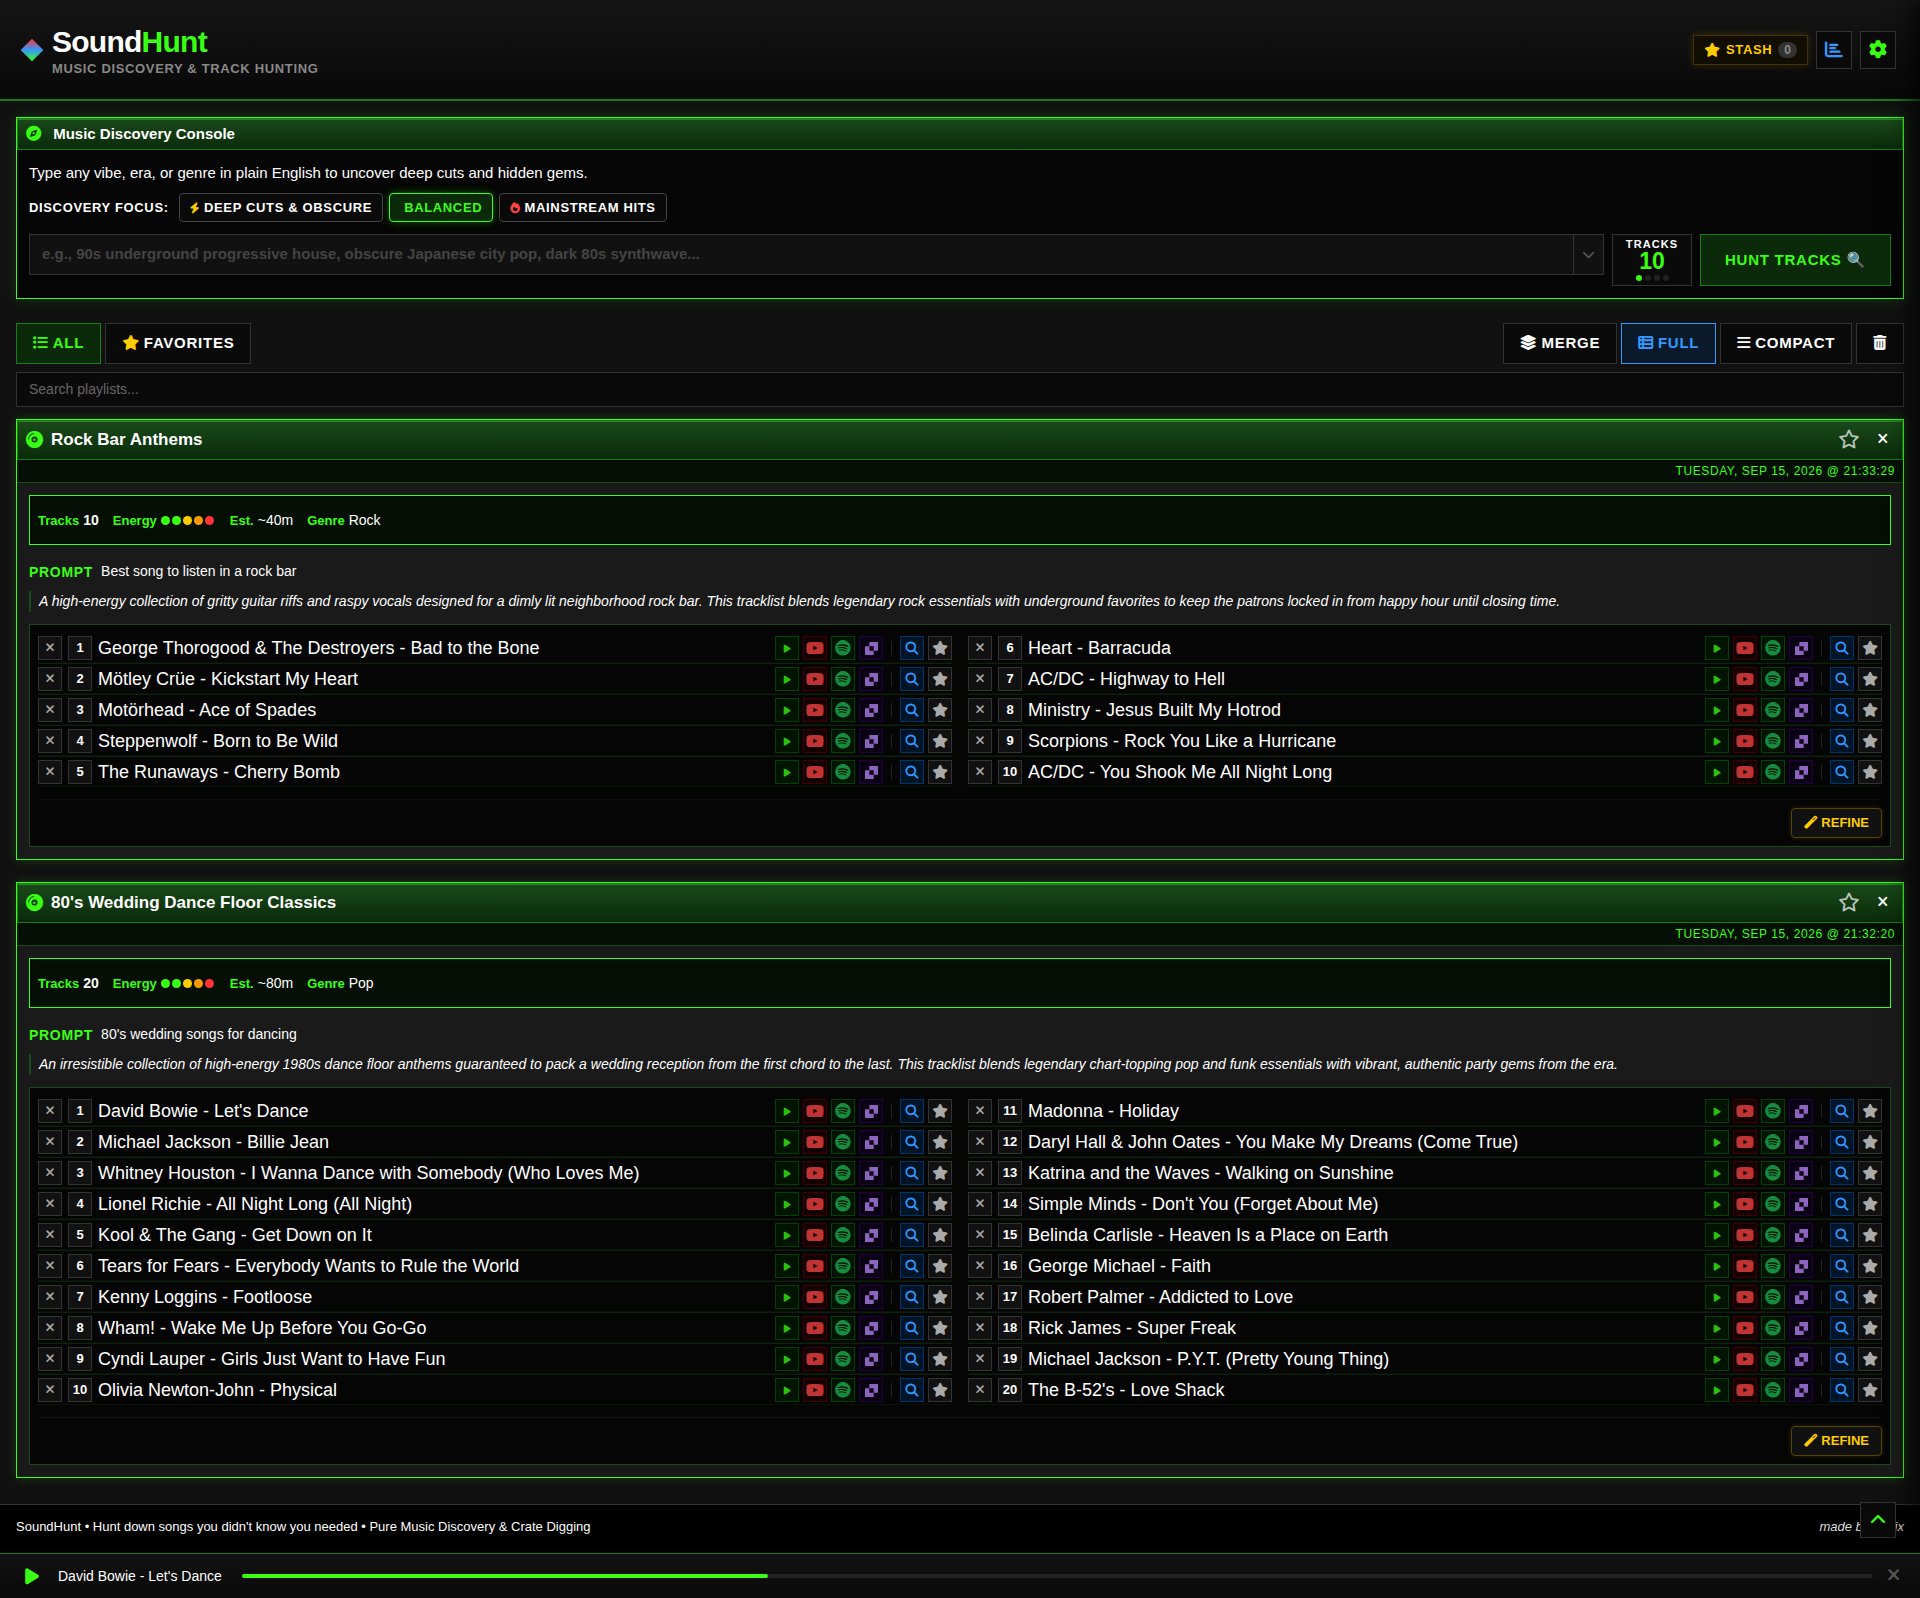
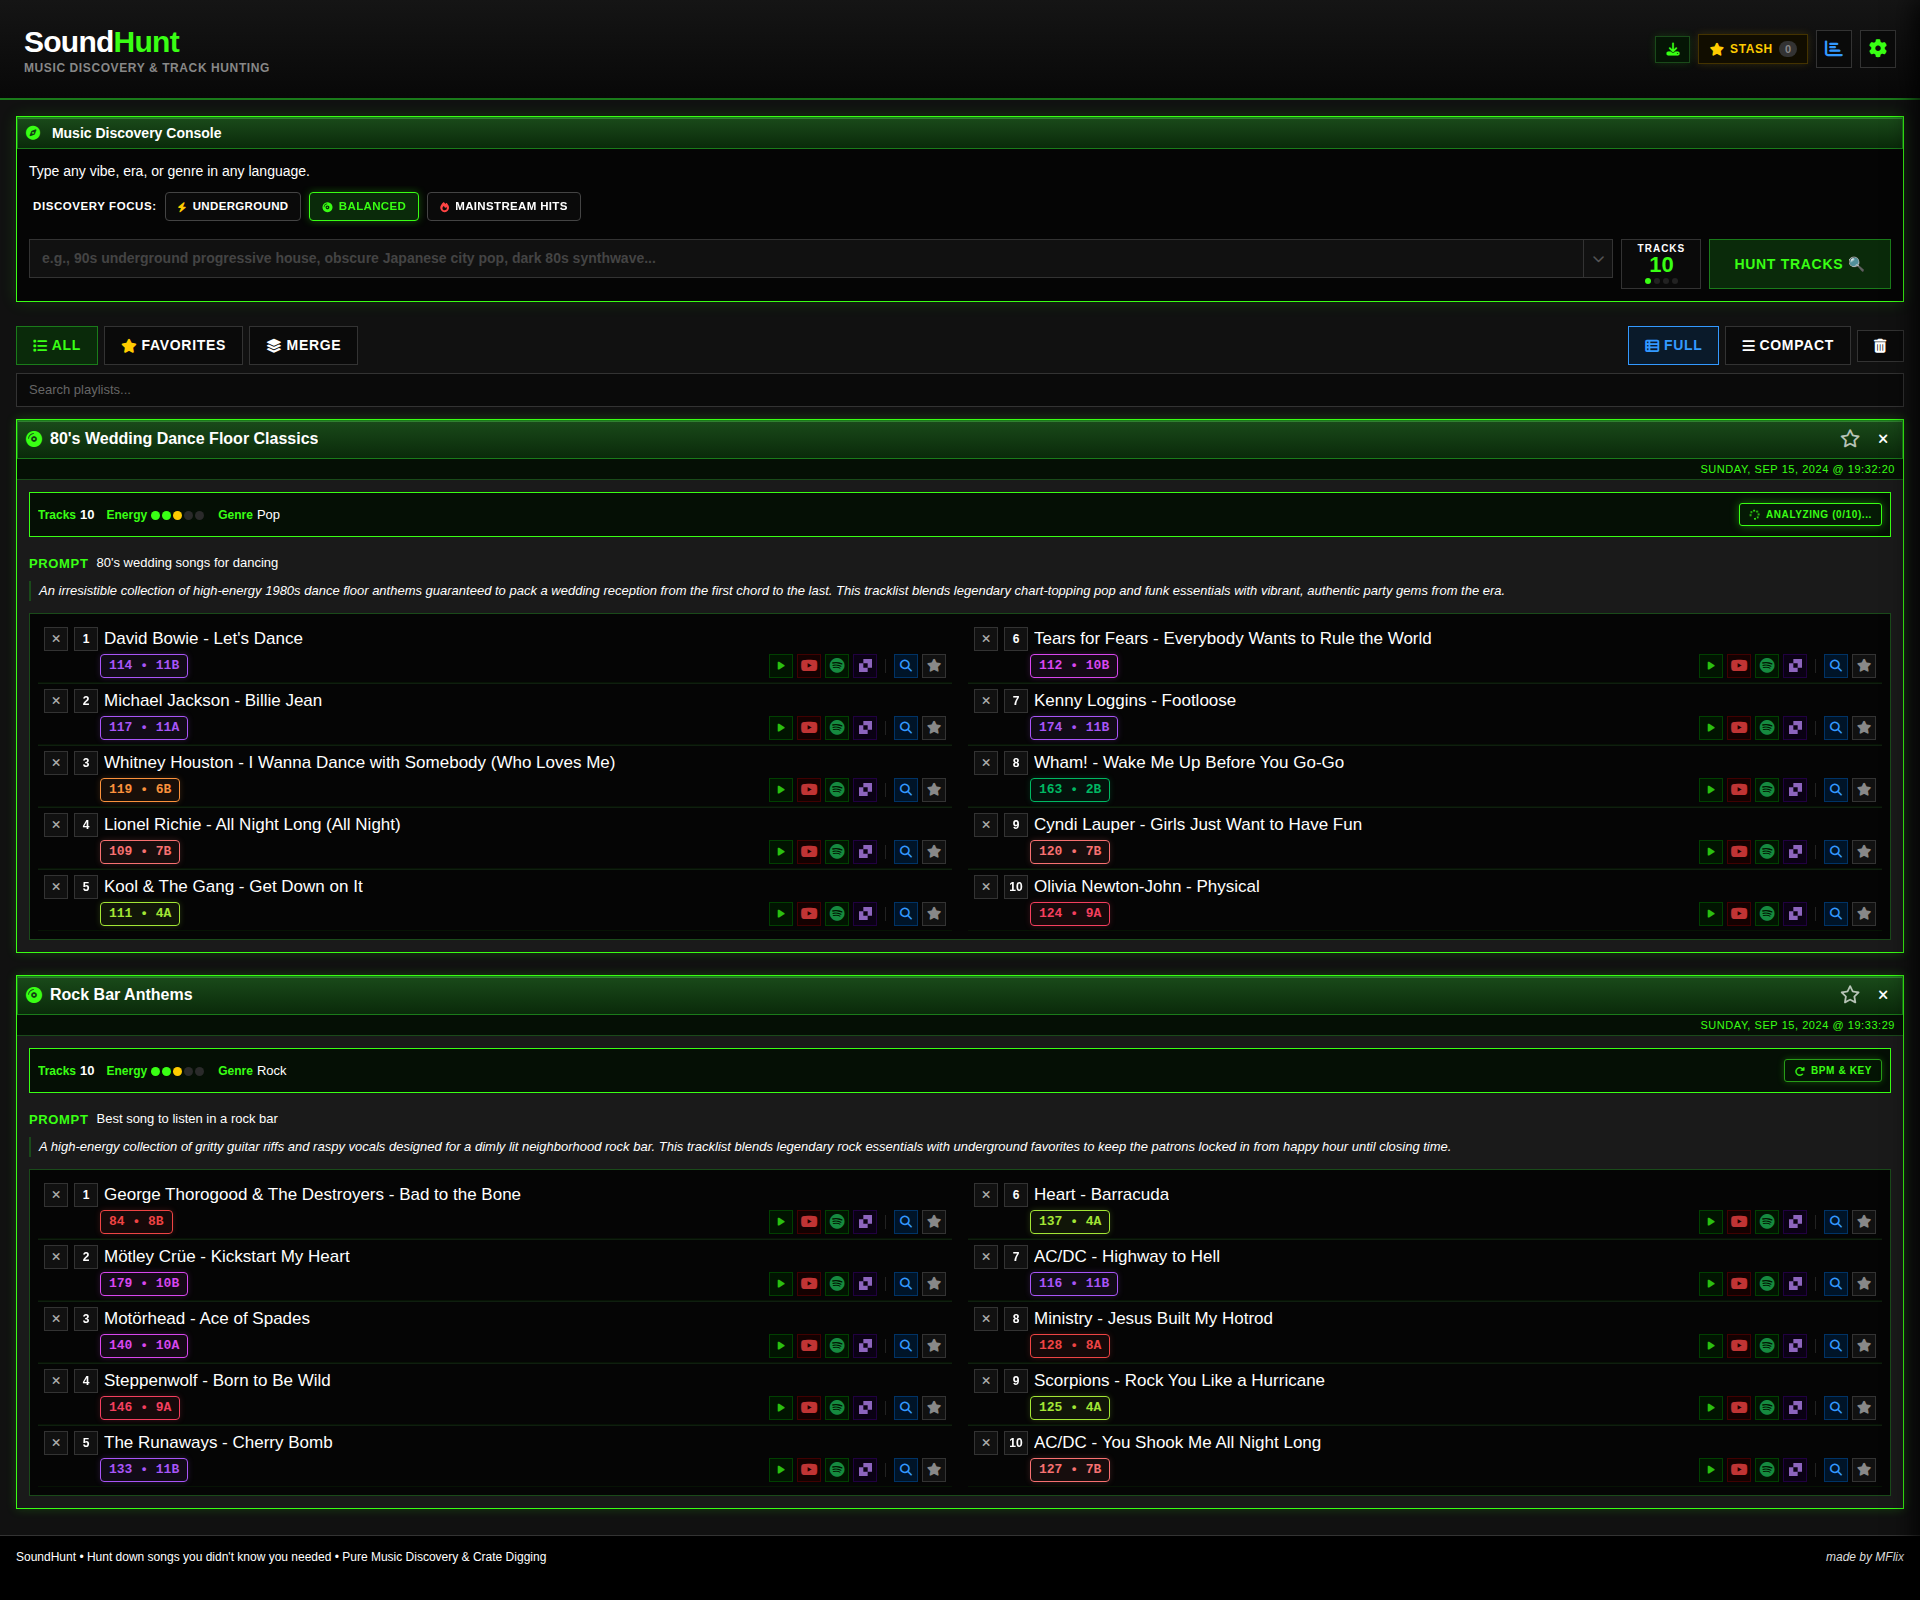
refactor: bump version to v0.3.7

Changed region(s): [[0.0, 0.0, 1.0, 1.0], [0.7812, 0.1227, 1.0, 0.2453]]

diff --git a/js/feed.js b/js/feed.js
@@ -16,10 +16,10 @@ function setFilter(mode) {
     currentFilter = mode;
     document.getElementById('btn-filter-all').className = mode === 'all'
         ? 'px-4 py-2 text-[12px] uppercase font-bold tracking-wider border transition-all bg-[#0a2a0a] border-[#1a7b1a] text-[#39ff14]'
-        : 'px-4 py-2 text-[12px] uppercase font-bold tracking-wider border transition-all bg-[#0a0a0a] border-[#333] text-[#888]';
+        : 'px-4 py-2 text-[12px] uppercase font-bold tracking-wider border transition-all bg-[#0a0a0a] border-[#333] text-white';
     document.getElementById('btn-filter-fav').className = mode === 'favorites'
-        ? 'px-4 py-2 text-[12px] uppercase font-bold tracking-wider border transition-all bg-[#2a2000] border-[#ffcc00] text-[#ffcc00]'
-        : 'px-4 py-2 text-[12px] uppercase font-bold tracking-wider border transition-all bg-[#0a0a0a] border-[#333] text-[#888]';
+        ? 'px-4 py-2 text-[12px] uppercase font-bold tracking-wider border transition-all bg-[#2a2000] border-[#ffcc00] text-white'
+        : 'px-4 py-2 text-[12px] uppercase font-bold tracking-wider border transition-all bg-[#0a0a0a] border-[#333] text-white';
     rebuildFeed();
 }
 
@@ -28,10 +28,10 @@ function setView(mode) {
     currentView = mode;
     document.getElementById('btn-view-normal').className = mode === 'normal'
         ? 'px-4 py-2 text-[12px] uppercase font-bold tracking-wider border transition-all bg-[#0a1a2a] border-[#3399ff] text-[#3399ff]'
-        : 'px-4 py-2 text-[12px] uppercase font-bold tracking-wider border transition-all bg-[#0a0a0a] border-[#333] text-[#888]';
+        : 'px-4 py-2 text-[12px] uppercase font-bold tracking-wider border transition-all bg-[#0a0a0a] border-[#333] text-white';
     document.getElementById('btn-view-compact').className = mode === 'compact'
         ? 'px-4 py-2 text-[12px] uppercase font-bold tracking-wider border transition-all bg-[#0a1a2a] border-[#3399ff] text-[#3399ff]'
-        : 'px-4 py-2 text-[12px] uppercase font-bold tracking-wider border transition-all bg-[#0a0a0a] border-[#333] text-[#888]';
+        : 'px-4 py-2 text-[12px] uppercase font-bold tracking-wider border transition-all bg-[#0a0a0a] border-[#333] text-white';
     rebuildFeed();
 }
 
@@ -459,12 +459,12 @@ function renderNewMix(data, persist = false) {
 
     // Discovery Focus Header Icon strictly matching selector buttons:
     // Balanced: Green Vinyl (fa-compact-disc text-[#39ff14])
-    // Deep Cuts & Obscure: Lightning Bolt (fa-bolt text-[#ffcc00])
+    // Underground: Lightning Bolt (fa-bolt text-[#ffcc00])
     // Mainstream Hits: Fire (fa-fire text-[#ff4444])
     let focusIconHTML = '<i class="fas fa-compact-disc text-[#39ff14] shrink-0" title="Balanced Discovery"></i>';
     const focusMode = data._focus || data.focus || 'balanced';
     if (focusMode === 'deep-cuts') {
-        focusIconHTML = '<i class="fas fa-bolt text-[#ffcc00] shrink-0" title="Deep Cuts & Obscure"></i>';
+        focusIconHTML = '<i class="fas fa-bolt text-[#ffcc00] shrink-0" title="Underground"></i>';
     } else if (focusMode === 'mainstream') {
         focusIconHTML = '<i class="fas fa-fire text-[#ff4444] shrink-0" title="Mainstream Hits"></i>';
     }

diff --git a/index.html b/index.html
@@ -325,7 +325,7 @@
                         <span class="discovery-focus-label shrink-0">Discovery Focus:</span>
                         <button type="button" onclick="setDiscoveryChip('deep-cuts')" data-mode="deep-cuts"
                             class="discovery-chip">
-                            <i class="fas fa-bolt text-[#ffcc00]"></i> Deep Cuts & Obscure
+                            <i class="fas fa-bolt text-[#ffcc00]"></i> Underground
                         </button>
                         <button type="button" onclick="setDiscoveryChip('balanced')" data-mode="balanced"
                             class="discovery-chip active">
@@ -341,7 +341,6 @@
                         <div class="flex-1 relative">
                             <div class="flex">
                                 <input type="text" id="ai-vibe"
-                                    placeholder="e.g., 90s underground progressive house, obscure Japanese city pop, dark 80s synthwave..."
                                     class="flex-1 bg-[#111] border border-[#333] focus:border-[#39ff14] text-[#39ff14] px-3 py-2 outline-none font-bold placeholder-[#444] transition-colors w-full">
                                 <button id="prompt-history-btn" onclick="togglePromptHistory()" type="button"
                                     title="Prompt history"
@@ -436,7 +435,7 @@
                 </div>
                 <div class="mt-2">
                     <input type="text" id="history-search" placeholder="Search playlists..." oninput="filterHistory()"
-                        class="w-full bg-[#0a0a0a] border border-[#333] focus:border-[#39ff14] text-white px-3 py-1.5 outline-none text-[11px] placeholder-[#666] transition-colors">
+                        class="w-full bg-[#0a0a0a] border border-[#333] focus:border-[#39ff14] text-white px-3 py-1.5 outline-none text-[11px] placeholder-[#aaa] transition-colors">
                 </div>
             </div>
 
@@ -483,17 +482,17 @@
     </button>
 
     <!-- ── JavaScript Modules (load order matters) ── -->
-    <script src="js/storage.js?v=0.3.6"></script>
-    <script src="js/stash.js?v=0.3.6"></script>
-    <script src="js/settings.js?v=0.3.6"></script>
-    <script src="js/stats.js?v=0.3.6"></script>
-    <script src="js/player.js?v=0.3.6"></script>
-    <script src="js/audio-dsp-engine.js?v=0.3.6"></script>
-    <script src="js/playlist.js?v=0.3.6"></script>
-    <script src="js/merge.js?v=0.3.6"></script>
-    <script src="js/feed.js?v=0.3.6"></script>
-    <script src="js/api.js?v=0.3.6"></script>
-    <script src="js/ui.js?v=0.3.6"></script>
+    <script src="js/storage.js?v=0.3.7"></script>
+    <script src="js/stash.js?v=0.3.7"></script>
+    <script src="js/settings.js?v=0.3.7"></script>
+    <script src="js/stats.js?v=0.3.7"></script>
+    <script src="js/player.js?v=0.3.7"></script>
+    <script src="js/audio-dsp-engine.js?v=0.3.7"></script>
+    <script src="js/playlist.js?v=0.3.7"></script>
+    <script src="js/merge.js?v=0.3.7"></script>
+    <script src="js/feed.js?v=0.3.7"></script>
+    <script src="js/api.js?v=0.3.7"></script>
+    <script src="js/ui.js?v=0.3.7"></script>
 
 </body>
 

diff --git a/js/merge.js b/js/merge.js
@@ -12,7 +12,7 @@ function toggleMergeMode() {
         document.getElementById('merge-go').classList.remove('hidden');
         document.body.classList.add('merge-active');
     } else {
-        mergeBtn.className = 'px-4 py-2 text-[12px] uppercase font-bold tracking-wider border transition-all bg-[#0a0a0a] border-[#333] text-[#888]';
+        mergeBtn.className = 'px-4 py-2 text-[12px] uppercase font-bold tracking-wider border transition-all bg-[#0a0a0a] border-[#333] text-white';
         mergeBtn.innerHTML = '<i class="fas fa-layer-group mr-1"></i>Merge';
         document.getElementById('merge-go').classList.add('hidden');
         document.body.classList.remove('merge-active');

diff --git a/sw.js b/sw.js
@@ -4,7 +4,7 @@
  * Guarantees fresh updates when connected, full offline capability when offline.
  */
 
-const CACHE_NAME = 'soundhunt-v0.3.6';
+const CACHE_NAME = 'soundhunt-v0.3.7';
 const STATIC_ASSETS = [
     './',
     './index.html',

diff --git a/README.md b/README.md
@@ -22,15 +22,17 @@
 
 ## What Can SoundHunt Do?
 
-- **Vibe-Based Discovery**: Describe any era, subgenre, or mood in plain English. No rigid genre dropdowns or algorithmic echo chambers.
-- **Deep Cuts or Hit Anthems**: Flip between **Deep Cuts & Obscure** (for rare vinyl B-sides and forgotten treasures), **Balanced**, or **Mainstream Hits**.
-- **Instant 30s Audition**: Hit play to preview 30s audio clips directly in your browser without leaving the page.
-- **In-Browser BPM & Camelot Key Detection**: Client-side Web Audio DSP analyzes iTunes 30s audio previews directly in your browser, detecting tempo (BPM) and harmonic key with official Serato Camelot color-coded badges, with zero server compute.
-- **Direct Search & Streaming Links**: Jump straight from any track to search and listen on **Spotify**, **YouTube**, or **Monochrome**.
-- **Ruthless Pruning**: Suggested tracks that miss the mark? Click `✕` to prune them out instantly with smooth animations and dynamic count updates.
-- **Multi-Track Selection & Bulk Pruning**: Click any track's numeration badge to activate multi-select mode, select multiple tracks at once with custom neon checkboxes, and bulk delete unwanted tracks in one go.
-- **Dig Deeper**: Found a track you love? Click the magnifying glass (`🔍`) and choose how many similar tracks (+3, +5, +10, or custom) to hunt down sharing that exact sonic groove and DNA.
-- **One-Click Download via Monochrome**: Star tracks (`★`) to your **Download Stash** drawer and jump straight to [Monochrome](https://monochrome.tf) to download them in high quality.
+- **Natural Language Discovery**: Describe any era, subgenre, or mood in any language (e.g., *"90s underground progressive house"*, *"Wedding Dance Floor Classics"*). No rigid genre dropdowns or algorithmic echo chambers.
+- **Discovery Focus (Underground, Balanced, or Hits)**: Flip between **Underground** (for rare vinyl B-sides), **Balanced**, or **Mainstream Hits**.
+- **30s Preview Player**: Preview 30-second audio clips directly in your browser with a persistent bottom player bar.
+- **In-Browser BPM & Camelot Key Detection**: Detect tempo (BPM) and harmonic key with official Serato Camelot color-coded badges (`1A`–`12B`) directly in your browser.
+- **Dig Deeper**: Found a track you love? Click the magnifying glass (`🔍`) to find similar tracks that share that exact groove, era, and energy.
+- **Download Stash Drawer**: Star tracks (`★`) into a persistent drawer to save them for later and quickly search them on [Monochrome](https://monochrome.tf).
+- **Multi-Track Selection**: Click any track number badge to select multiple tracks at once and bulk delete unwanted ones.
+- **Remove Tracks**: Click `✕` to quickly remove single tracks.
+- **Merge**: Combine multiple generated playlists into a single unified playlist with intelligent duplicate filtering.
+- **Direct Streaming Links**: Jump straight from any track to search and listen on **Spotify**, **YouTube**, or **Monochrome**.
+- **PWA Standalone App**: 1-click install as a standalone desktop app on **Windows, macOS, Linux**, or mobile home screens with offline support.
 
 ---
 
@@ -38,12 +40,11 @@
 
 ### Option A: Launch Instantly in Browser or Desktop (Zero Install)
 1. Open the live app: **[SoundHunt on Vercel](https://sound-hunt.vercel.app)**.
-2. Click **Install App** in the top bar (or the ⊕ icon in your browser's address bar) to install SoundHunt as a standalone desktop app on **Windows 10/11, macOS, or Linux**.
-3. No terminal, no Python, no downloads required!
+2. Click **Install App** in the top bar (or the ⊕ icon in your browser's address bar) to install SoundHunt as a standalone desktop app on **Windows, macOS, or Linux**.
 
 ---
 
-### Option B: Run Locally with Python (Offline / Developers)
+### Option B: Run Locally with Python
 If you prefer running SoundHunt completely offline or modifying the source locally:
 ```bash
 git clone https://github.com/marceloflix/SoundHunt.git soundhunt
@@ -54,7 +55,7 @@ Open **`http://localhost:8080`** in your browser.
 
 ---
 
-### 2. Grab Your Free Gemini Key (1 Minute)
+### Setup: Grab Your Free Gemini Key
 SoundHunt uses Google's Gemini API (`gemini-3.5-flash-lite`) to understand your musical prompts:
 1. Head over to [Google AI Studio](https://aistudio.google.com/apikey).
 2. Sign in and click **Create API Key**.
@@ -68,4 +69,4 @@ SoundHunt uses Google's Gemini API (`gemini-3.5-flash-lite`) to understand your 
 
 ## License
 
-Distributed under the **MIT License** — Made for music lovers, crate diggers, and track hunters everywhere.
+Distributed under the **MIT License** — Made for music lovers.
